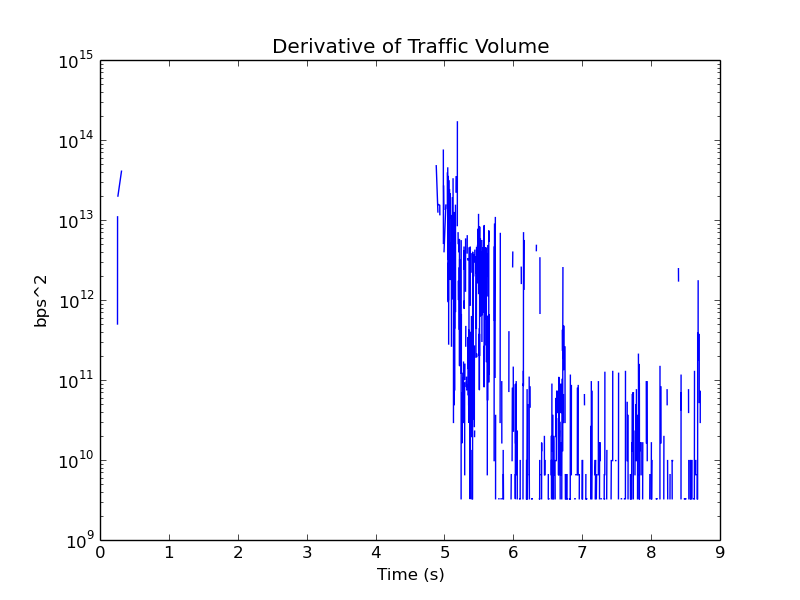
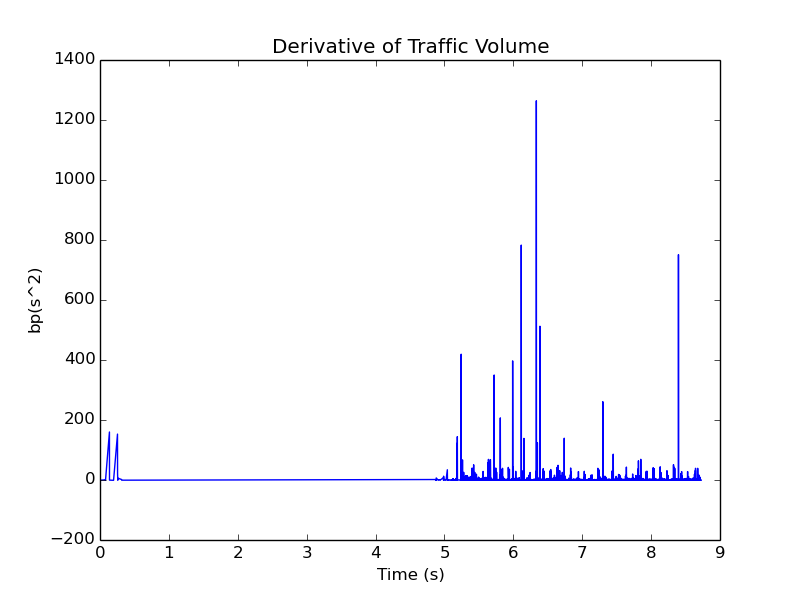
updated with normalized derivative metric

diff --git a/readFlowTrace.py b/readFlowTrace.py
@@ -124,6 +124,12 @@ def sourceInterarrival(flows, prefix = None):
         break
     plt.savefig(prefixName(prefix, 'pdf_src_interarrivals.png'))
 
+def normalizedDerivative(nums):
+    old = next(nums)
+    for curr in nums:
+        yield (curr - old)/old
+        old = curr
+
 def burstinessAnalysis(flows, prefix = None):
     flows.sort(key = lambda x: x['time'])
     slotDuration = 1e5 # 100 ms = 1e5 us slots
@@ -155,10 +161,9 @@ def burstinessAnalysis(flows, prefix = None):
     plt.clf()
     plt.title('Derivative of Traffic Volume')
     plt.xlabel('Time (s)')
-    plt.ylabel('bps^2')
-    tmp = list(interarrivals(iter(yaxis)))
-    print len(xaxis), len(yaxis), len(tmp)
-    plt.semilogy(xaxis[:-1], tmp)
+    plt.ylabel('bp(s^2)')
+    tmp = list(normalizedDerivative(iter(yaxis)))
+    plt.plot(xaxis[:-1], tmp)
     plt.savefig(prefixName(prefix, 'derivative_trafficvolume.png'))
 
 def KStesting(flows):
